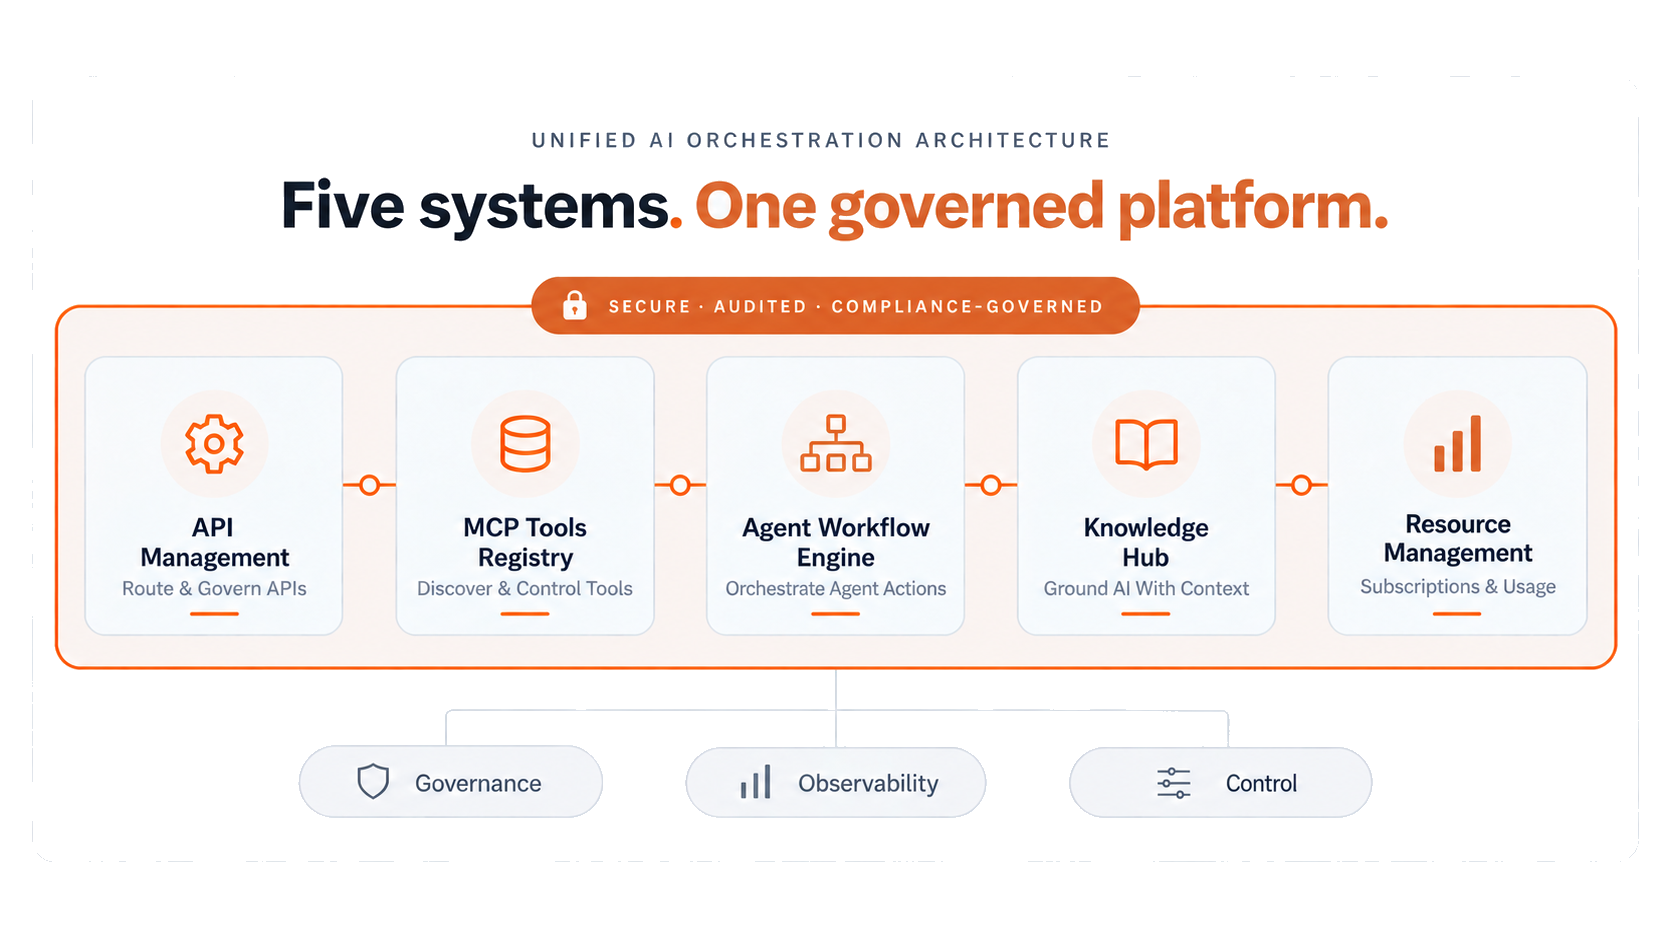
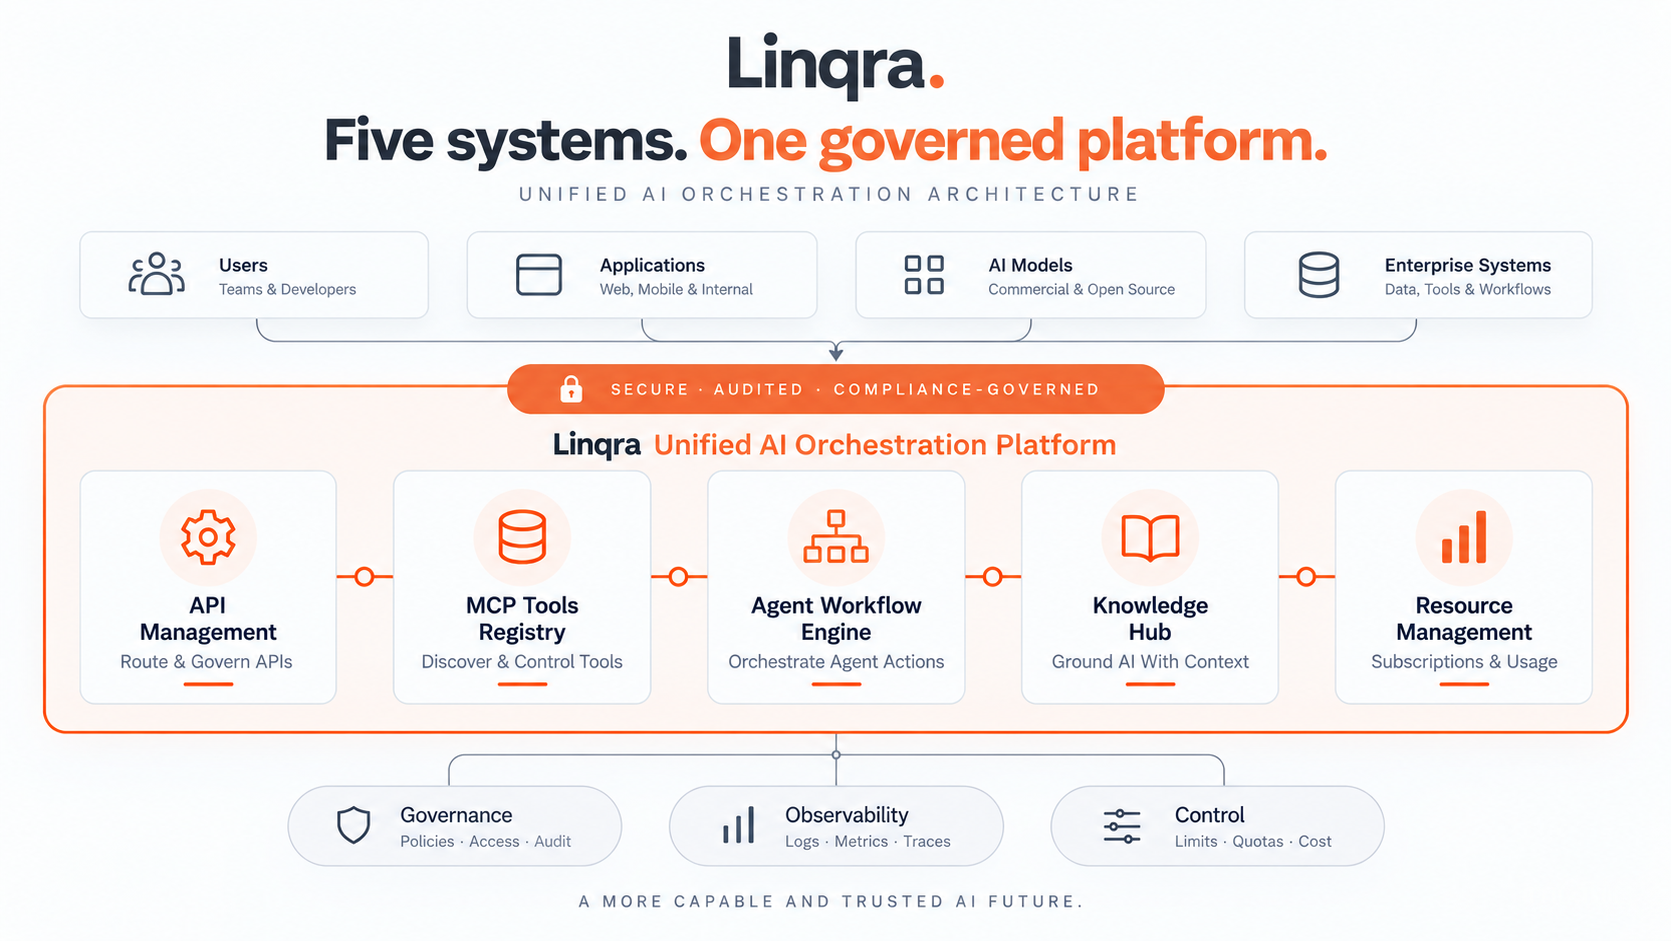
Update home page

diff --git a/edge-service/src/pages/Home/index.jsx b/edge-service/src/pages/Home/index.jsx
@@ -265,8 +265,25 @@ function Home() {
 
       <div className="orchestration-section">
         <h2 className="home-section-title">Unified AI Orchestration Architecture</h2>
-        <div className="hero-image-container">
-          <img src="/images/linqra_orchestrator_final.png" alt="Unified AI Orchestrator" className="hero-image" />
+        <div
+          className="orchestration-visual clickable-card"
+          role="button"
+          tabIndex={0}
+          onClick={() => setModalImageSrc('/images/linqra_orchestrator_final.png')}
+          onKeyDown={(e) => {
+            if (e.key === 'Enter' || e.key === ' ') {
+              e.preventDefault();
+              setModalImageSrc('/images/linqra_orchestrator_final.png');
+            }
+          }}
+          aria-label="Open Unified AI Orchestration Architecture fullscreen"
+        >
+          <img
+            src="/images/linqra_orchestrator_final.png"
+            alt="Unified AI Orchestrator"
+            className="orchestration-image"
+          />
+          <p className="orchestration-caption">Click to view fullscreen</p>
         </div>
       </div>
 

diff --git a/edge-service/src/pages/Home/styles.css b/edge-service/src/pages/Home/styles.css
@@ -2542,9 +2542,30 @@ body,
 }
 
 .orchestration-section {
-  padding: 4rem 2rem;
-  background: linear-gradient(180deg, #f8f9fa 0%, #e2e8f0 100%);
+  padding: 4rem 1.25rem 5rem;
+  background: transparent;
   text-align: center;
+}
+
+.orchestration-visual {
+  max-width: 1180px;
+  width: 100%;
+  margin: 2rem auto 0;
+  cursor: zoom-in;
+  background: transparent;
+}
+
+.orchestration-image {
+  display: block;
+  width: 100%;
+  height: auto;
+  background: transparent;
+}
+
+.orchestration-caption {
+  margin: 0.85rem 0 0;
+  font-size: 0.9rem;
+  color: #64748b;
 }
 
 .hero-image {
